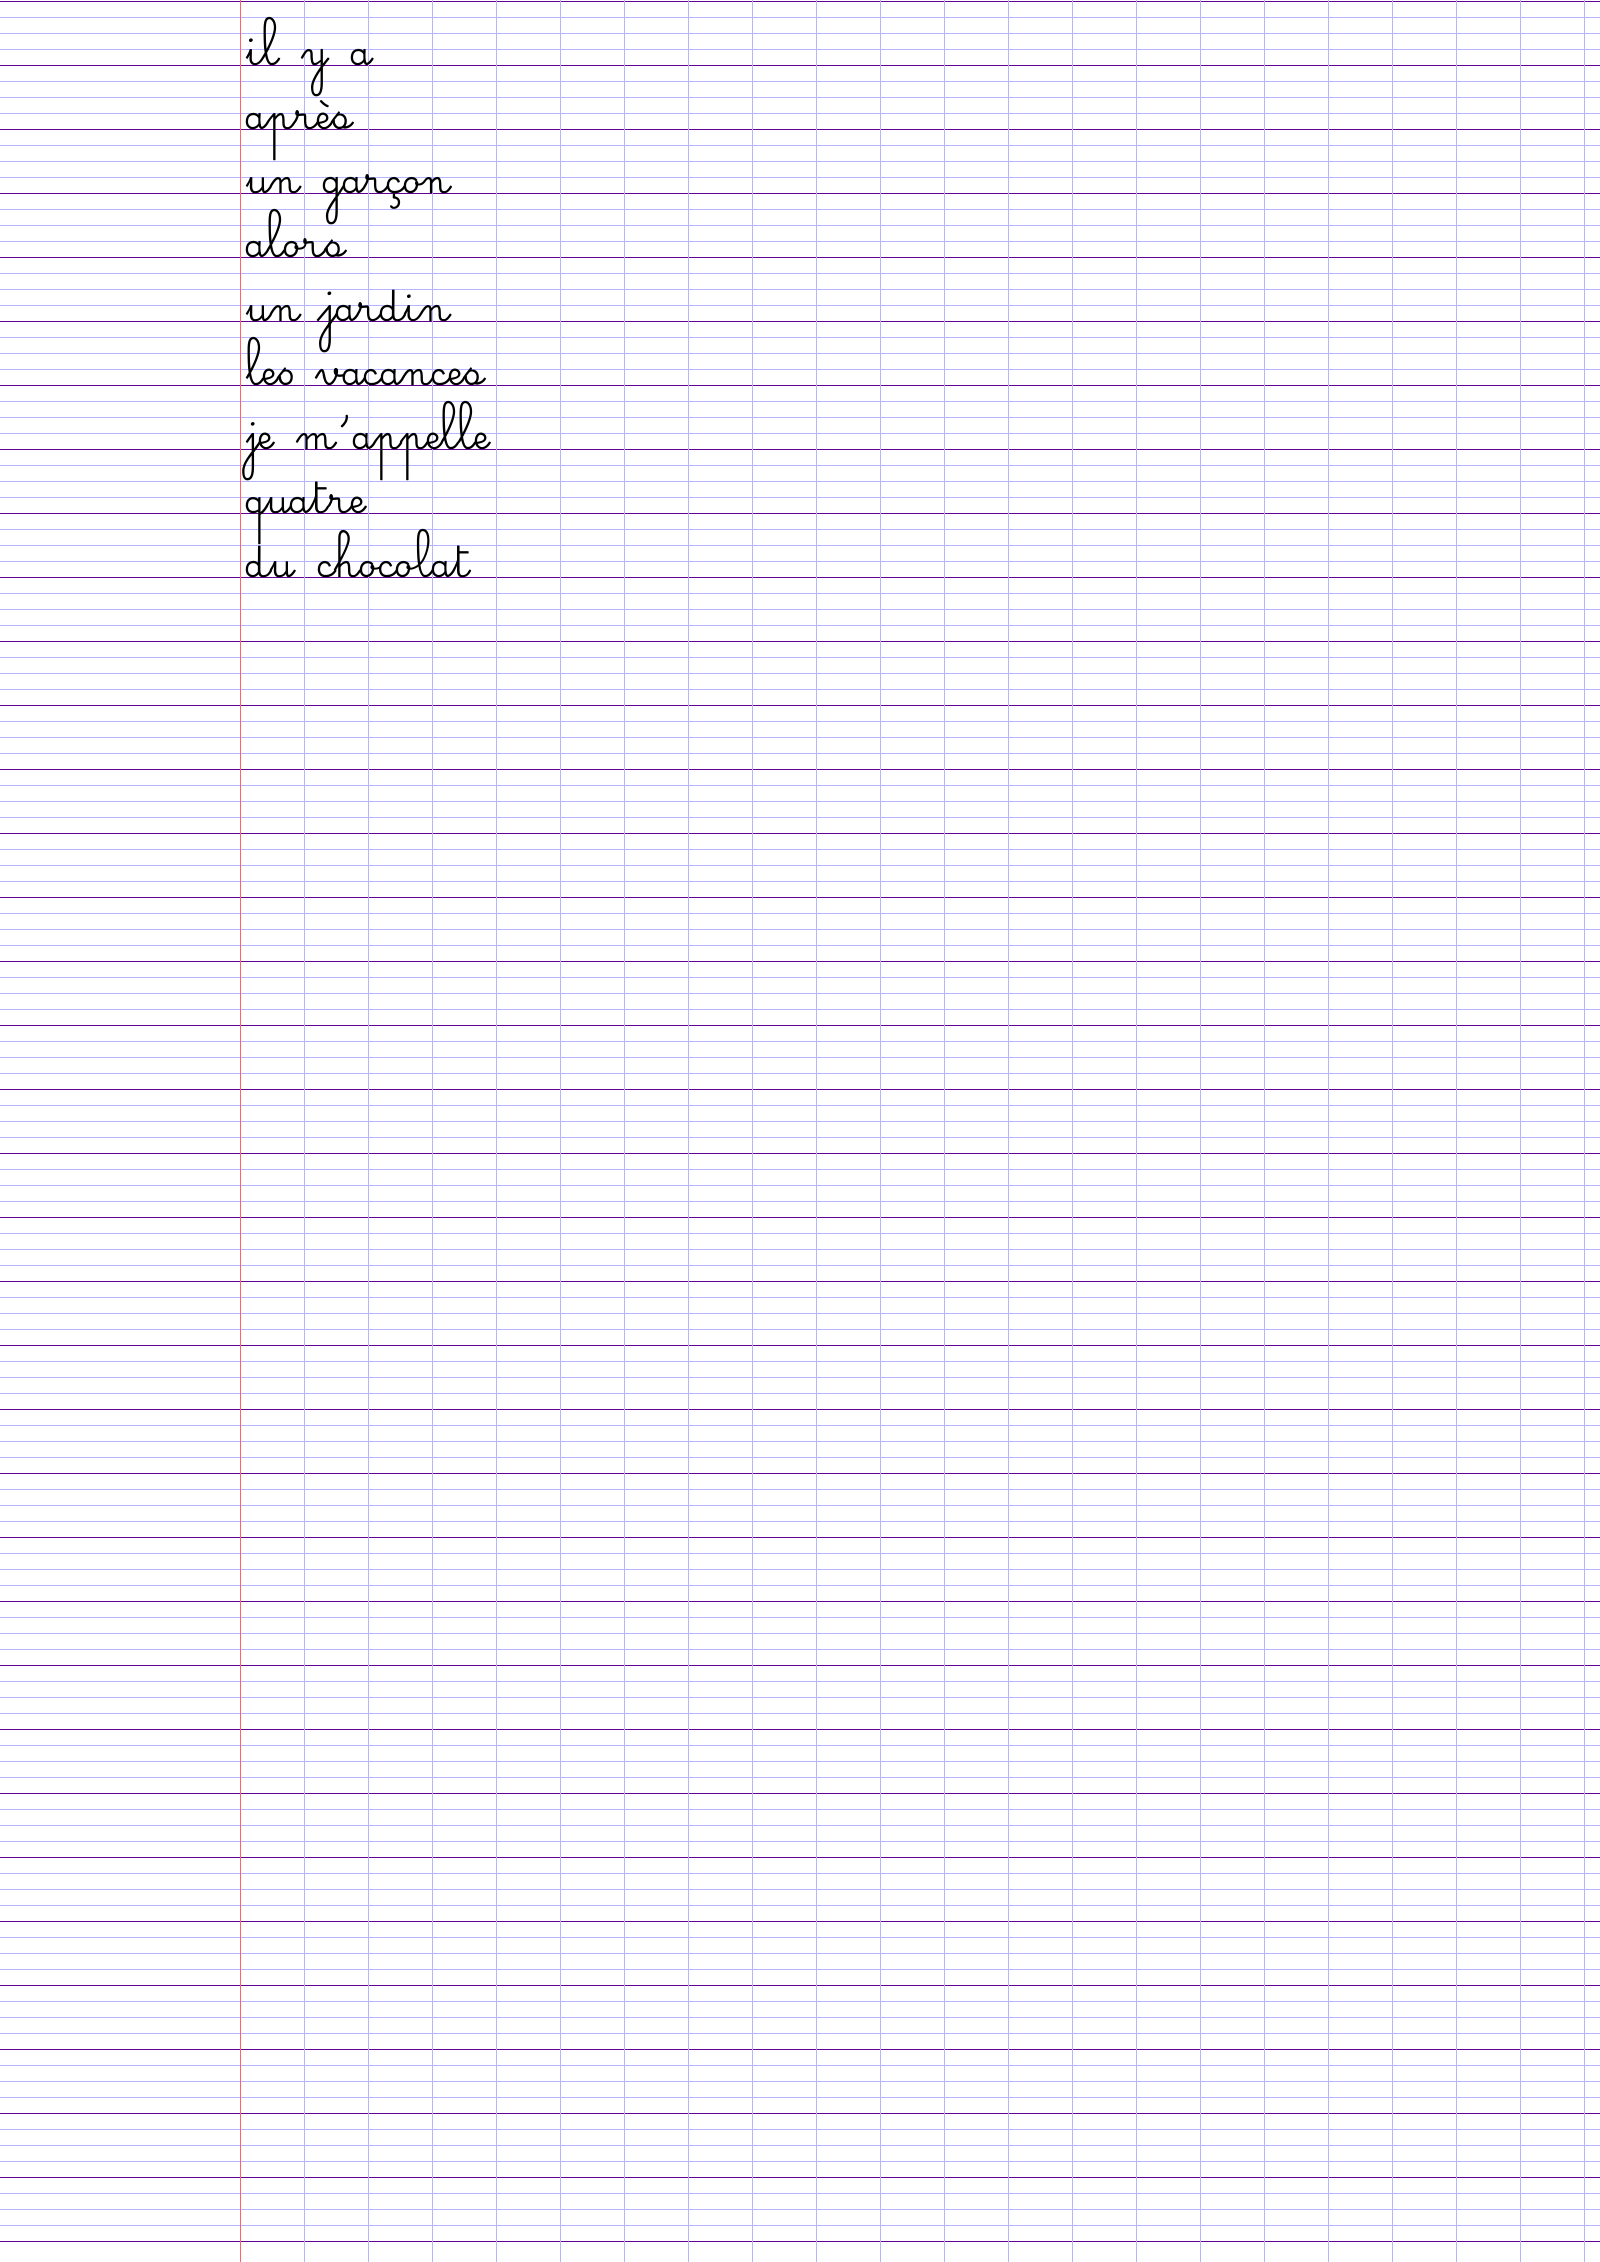
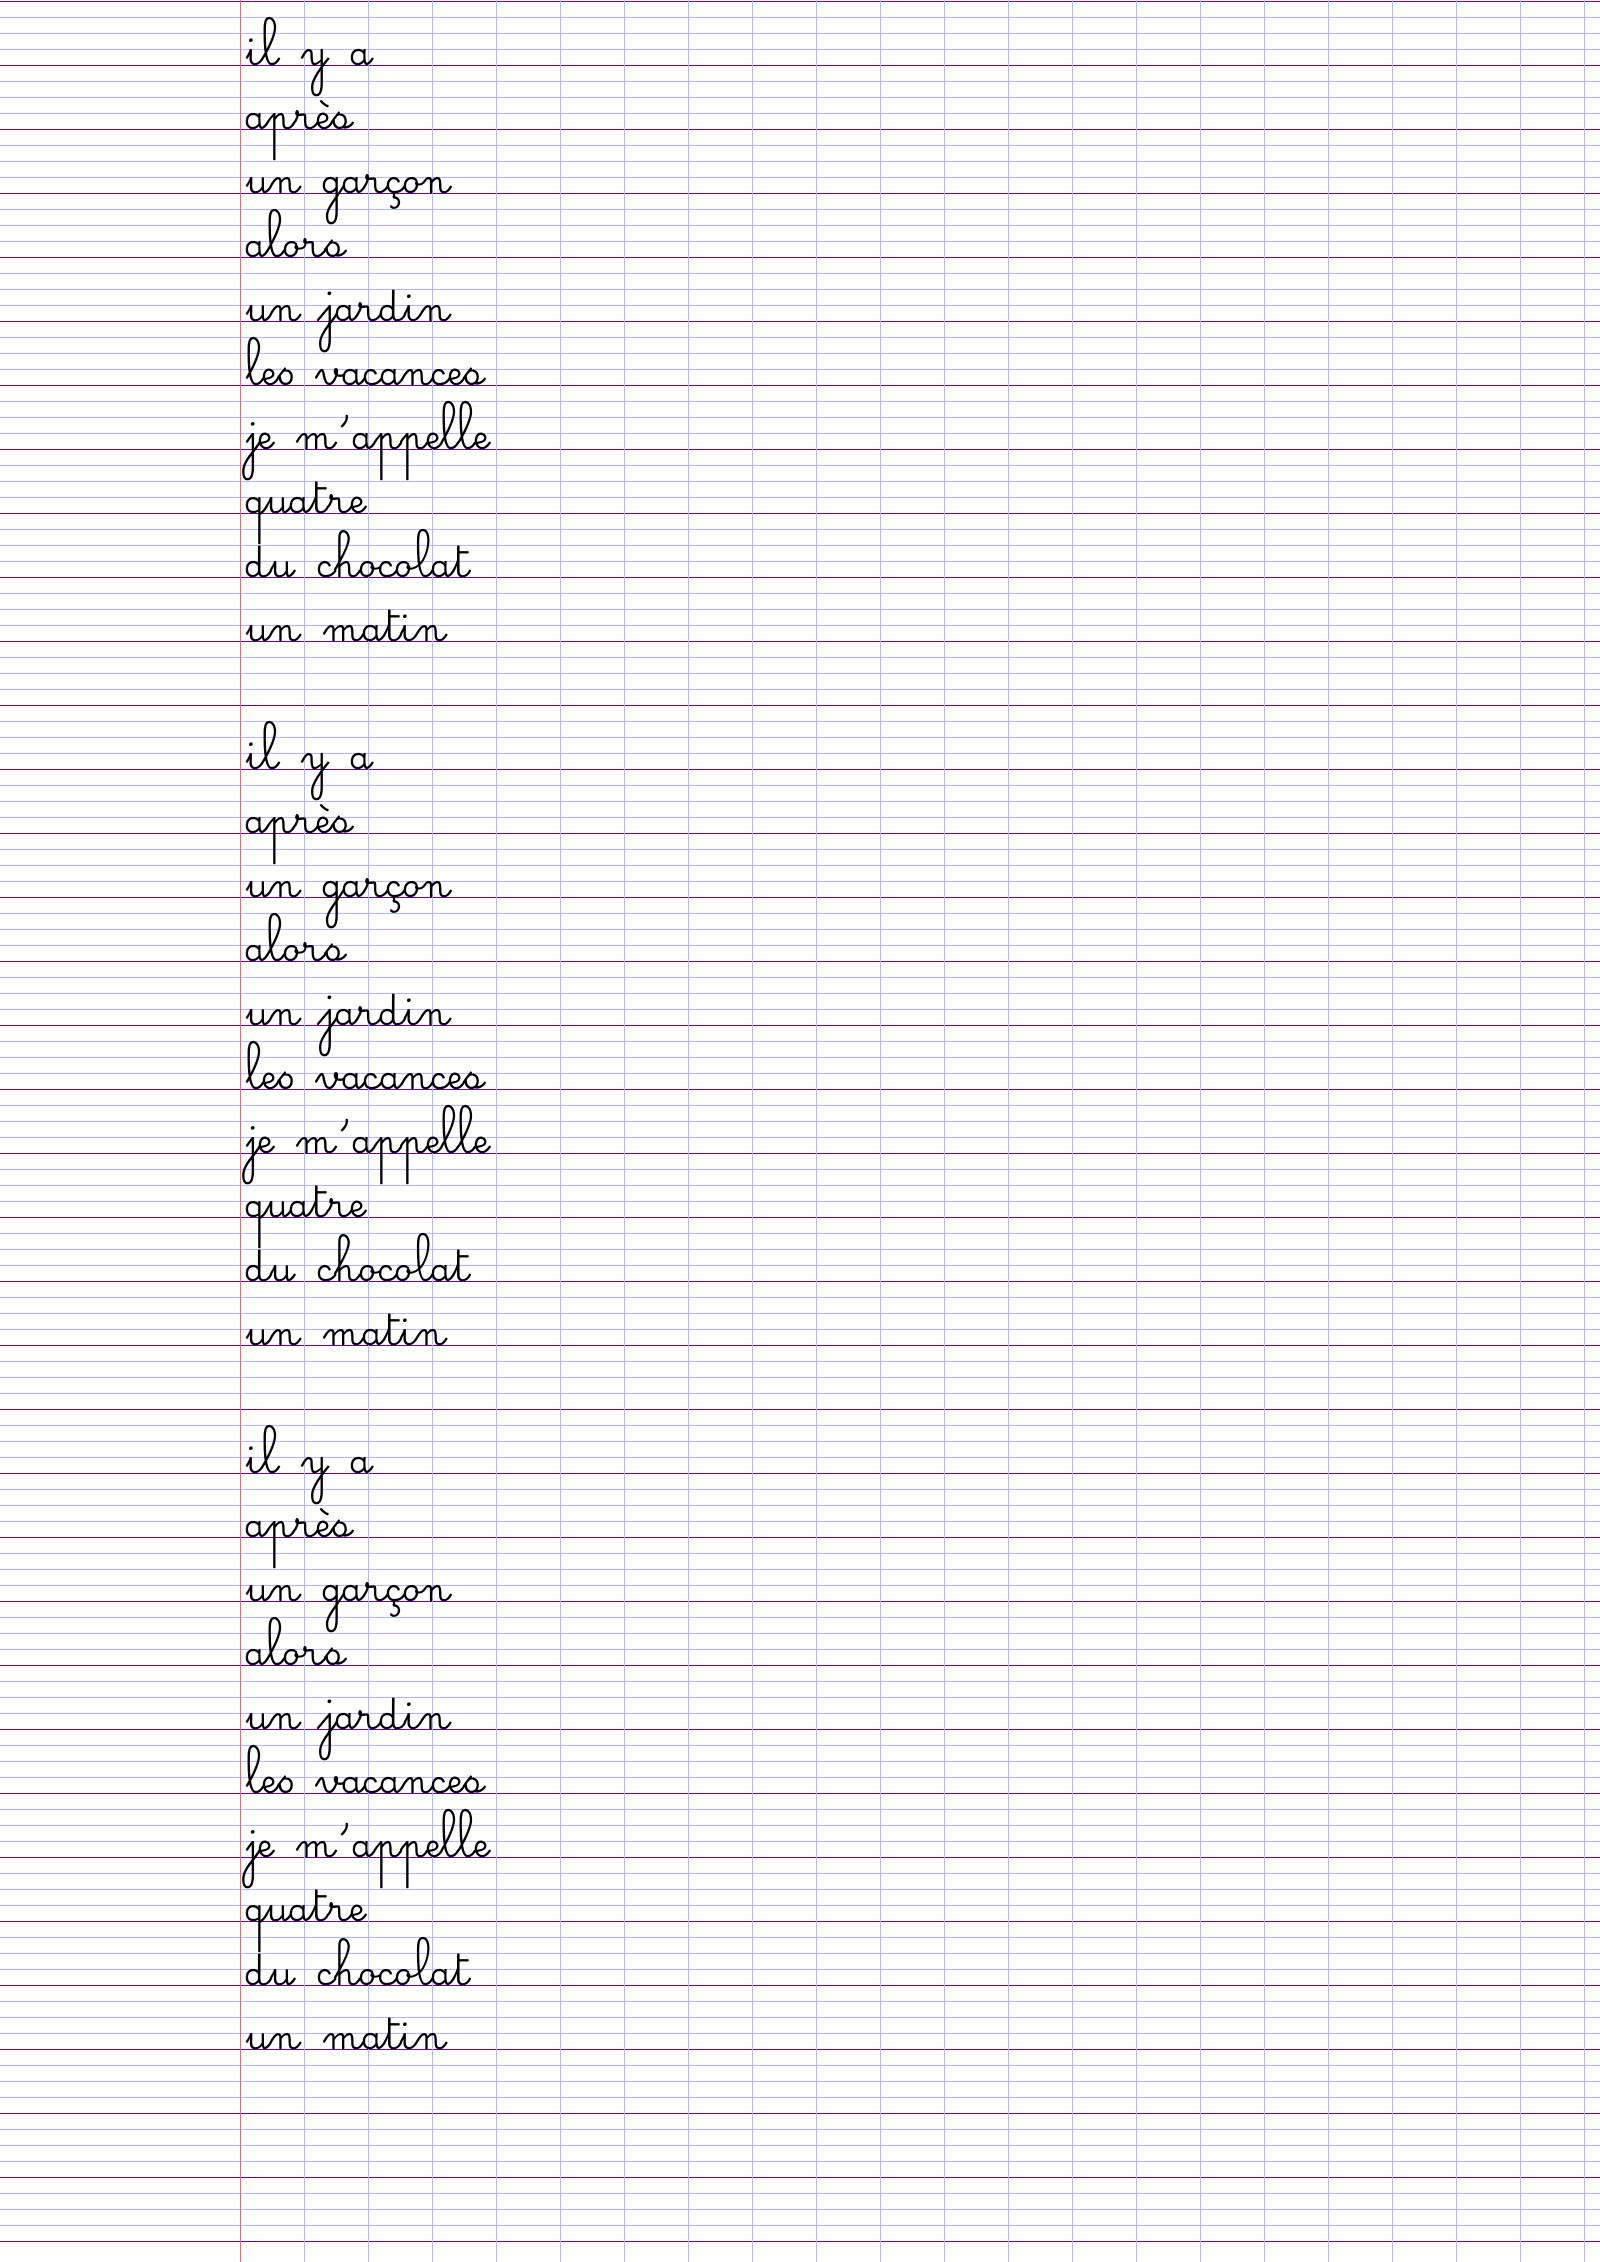
Feature Added repeat param

diff --git a/src/seyes_wordlist.py b/src/seyes_wordlist.py
@@ -45,7 +45,8 @@ def draw_text(draw, text, x, y, font):
         y += pixel_per_mm * 2 * 4
 
 
-def generate_page(text_lines, path_to_save = None):
+# generates a page with the given text lines
+def generate_page(text_lines, path_to_save = None, repeat=False):
     # Create a new image with the specified size and background color
     image = Image.new("RGB", (width, height), background_color)
 
@@ -87,7 +88,19 @@ def generate_page(text_lines, path_to_save = None):
     y = pixel_per_mm * 2 * 4 + major_line_offset
     x = left_border + 5
 
-    draw_text(draw, text_lines, x, y, font)
+    while True:
+        draw_text(draw, text_lines, x, y, font)
+        if not repeat:
+            break
+
+        #move to the next set of text y position + 1 line of blank space
+        y += (pixel_per_mm * 2 * 4) * (len(text_lines))
+
+        #enough room for another set of text?
+        if y + (pixel_per_mm * 2 * 4) * (len(text_lines)) > height:
+            break
+
+
 
     # Save the image
     if path_to_save is not None:
@@ -104,11 +117,15 @@ Usage: python3 seys_wordlist.py <path_to_file>
         """)
         exit(1)
     
-    if len(sys.argv) == 2:
+    if len(sys.argv) >= 2:
+        repeat = False
+        if len(sys.argv) >= 3:
+            repeat = str(sys.argv[2]).lower() == "repeat"
+
         with open(sys.argv[1], "r") as f:
             lines = f.readlines()
             lines = [l.strip() for l in lines]
-            generate_page(lines, sys.argv[1] + ".png")
+            generate_page(lines, sys.argv[1] + ".png", repeat)
 
 
     

diff --git a/README.md b/README.md
@@ -17,9 +17,9 @@ You can have also a left hand margin which I kept, and split the left side with 
 
 ## Usage
 ```bash
-python3 seys_wordlist.py <path_to_file>
+python3 seys_wordlist.py <path_to_file> [repeat]
 ```
-Generates a *path_to_file* **.png** image with the content you wanted.
+Generates a *path_to_file* **.png** image with the content you wanted. Add the parameter "repeat" to have the list written again if there's space left (all or nothing).
 
 ## Customization
 All the settings are in **seyes_wordlist.py** at the top.
